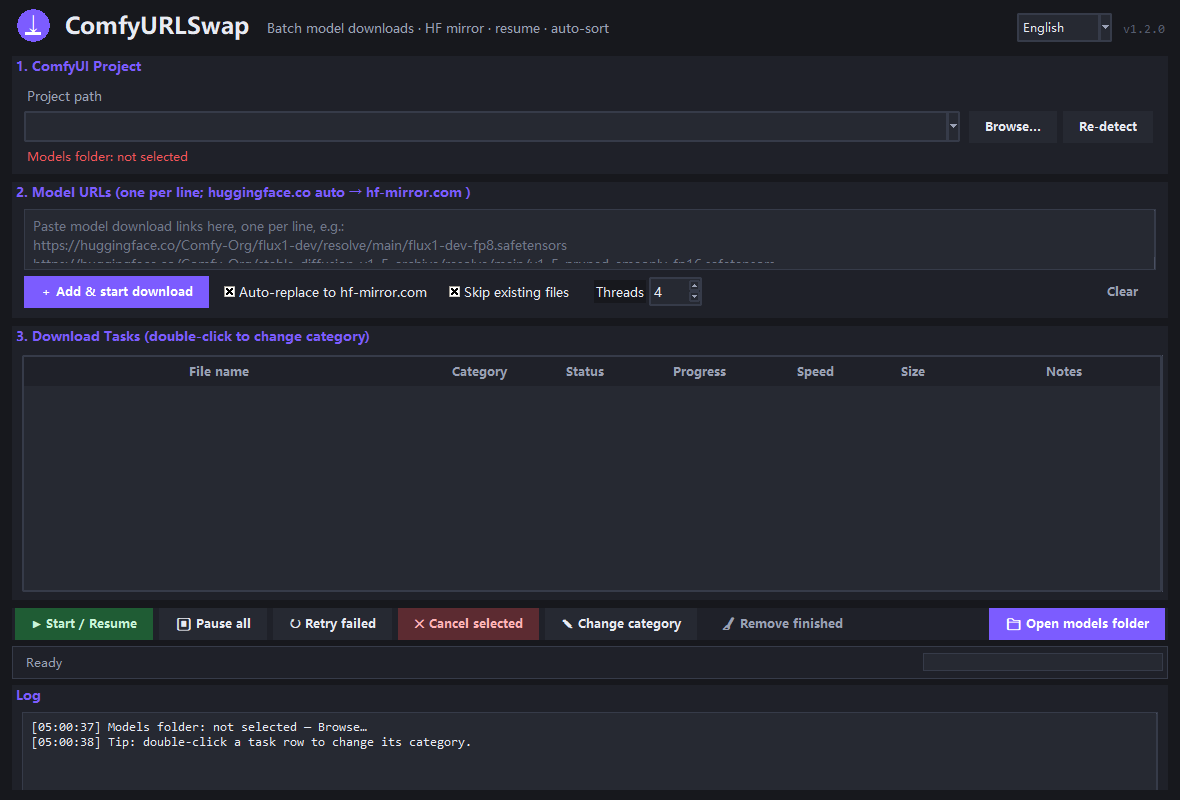
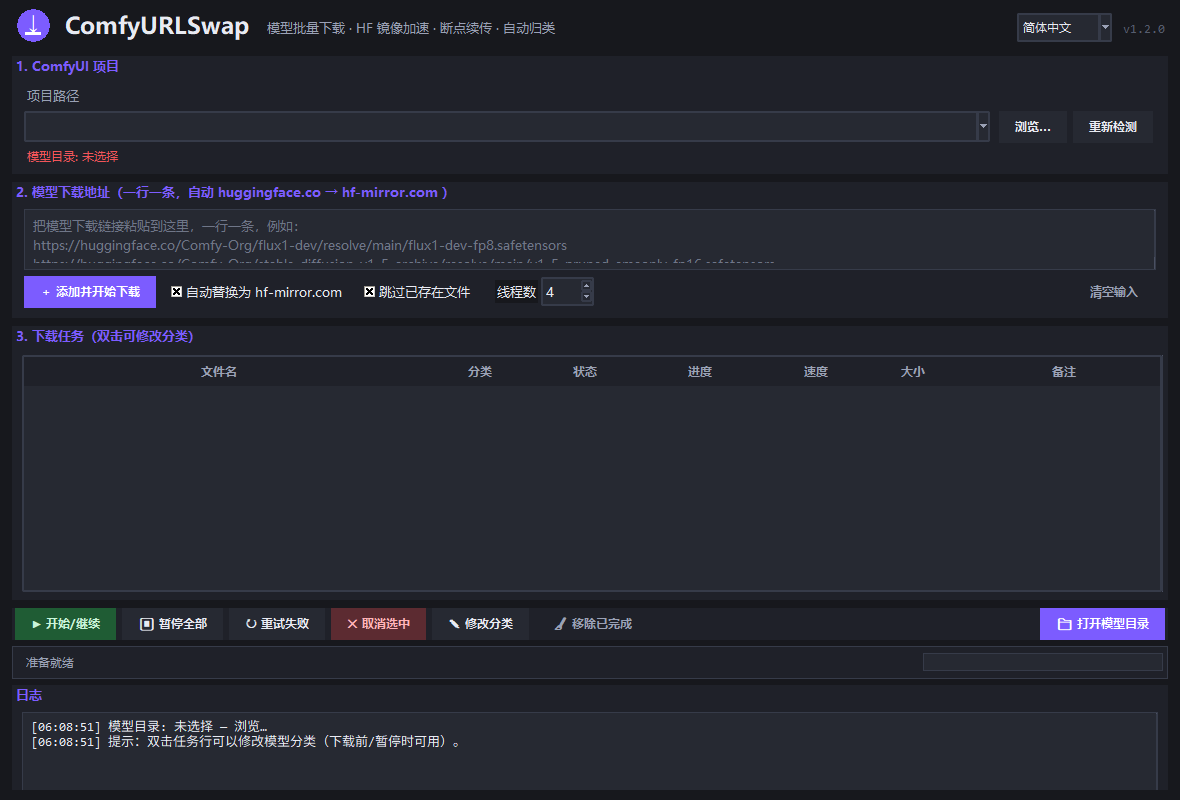
v1.2.0: default language switched to Chinese (root README + app fallback); English docs moved to docs/README_en.md

diff --git a/urlswap/i18n.py b/urlswap/i18n.py
@@ -722,7 +722,7 @@ _current = "en"
 
 
 def detect_language():
-    """根据系统 locale 猜测语言代码。"""
+    """根据系统 locale 猜测语言代码；识别不到时默认简体中文。"""
     loc = ""
     try:
         import locale as _l
@@ -734,11 +734,12 @@ def detect_language():
     for code, _name in LANGUAGES:
         if loc in (code.lower(), code.lower().replace("_", "")):
             return code
-    for prefix, code in (("zh", "zh_CN"), ("ja", "ja"), ("ko", "ko"), ("es", "es"),
+    for prefix, code in (("zh", "zh_CN"), ("en", "en"), ("ja", "ja"),
+                         ("ko", "ko"), ("es", "es"),
                          ("fr", "fr"), ("de", "de"), ("ru", "ru")):
         if loc.startswith(prefix):
             return code
-    return "en"
+    return "zh_CN"
 
 
 def set_language(code):

diff --git a/README.md b/README.md
@@ -1,118 +1,102 @@
 # ComfyURLSwap
 
-**v1.2.0** · Windows · Pure Python (Tkinter), **zero third-party dependencies** · **8 UI languages**
+**v1.2.0** · Windows · 纯 Python（Tkinter）实现，**零第三方依赖** · **界面支持 8 种语言**
 
-**English** | [简体中文](docs/README_zh.md)
+**简体中文** | [English](docs/README_en.md)
 
-![Preview](screenshot.png)
+![预览](screenshot.png)
 
-**ComfyURLSwap** is a small GUI downloader for ComfyUI model files. Paste a batch of
-download links, and it will:
+**ComfyURLSwap** 是一个 ComfyUI 模型批量下载器小工具，粘贴一堆下载链接即可：
 
-1. **Auto-detect your ComfyUI project** on startup (ComfyUI Desktop installs under
-   `%LOCALAPPDATA%\Comfy-Desktop\ComfyUI-Installs`, portable packages on common drives,
-   or pick a folder manually — your choice is remembered).
-2. **Swap HuggingFace links to the China mirror** — `huggingface.co` → `hf-mirror.com`
-   automatically (can be turned off). Pasted `/blob/` web-page URLs are converted to
-   `/resolve/` direct-download URLs automatically.
-3. **Download with multi-threading and resume support** — byte-level resume
-   (`.part` + `Range`), survives pause / network loss / closing the app; task list is
-   persisted and restored on next launch; failed tasks retry with backoff.
-4. **File every model into the right folder** under `<project>\ComfyUI\models\`,
-   detected from the URL / file name (double-click a task to override):
+1. **自动检测 ComfyUI 项目**：启动即扫描 ComfyUI Desktop（`%LOCALAPPDATA%\Comfy-Desktop\ComfyUI-Installs`）
+   与各盘符常见便携包目录，也可手动“浏览…”选择并记住。
+2. **自动替换国内镜像**：`huggingface.co` → `hf-mirror.com`（可关闭）；粘贴 HF 的
+   `/blob/` 网页地址会自动转换为 `/resolve/` 文件直链；服务器返回 HTML 网页时立即报错，不写坏文件。
+3. **多线程 + 断点续传**：字节级续传（`.part` + `Range`），暂停 / 断网 / 关闭程序后再打开自动恢复；
+   任务列表持久化，失败自动退避重试。
+4. **自动归类落盘**：按 URL / 文件名识别模型类型，放入 `<项目>\ComfyUI\models\` 下对应子目录
+   （双击任务行可手动修改分类）：
 
-   | Model type | Destination folder |
+   | 模型类型 | 存放目录 |
    | --- | --- |
-   | Checkpoint (SD1.5 / SDXL / Flux …) | `models/checkpoints/` |
-   | Diffusion / UNet base (quantized `fp8/int8/nvfp4` …) | `models/diffusion_models/` |
+   | 大模型 / Checkpoint（SD1.5、SDXL、Flux 等） | `models/checkpoints/` |
+   | Diffusion / UNet 底模（fp8/int8/nvfp4 等量化底模） | `models/diffusion_models/` |
    | LoRA | `models/loras/` |
    | VAE | `models/vae/` |
    | ControlNet | `models/controlnet/` |
    | Embedding / Textual Inversion | `models/embeddings/` |
-   | CLIP / text encoder | `models/clip/` |
+   | CLIP / 文本编码器 | `models/clip/` |
    | CLIP Vision | `models/clip_vision/` |
-   | UNet / diffusion model | `models/unet/` |
-   | Upscaler (ESRGAN …) | `models/upscale_models/` |
+   | UNet（单独扩散模型） | `models/unet/` |
+   | 放大模型（ESRGAN 等） | `models/upscale_models/` |
    | IP-Adapter | `models/ipadapter/` |
-5. **Talk to you in your language** — the whole UI *and* log messages are localized in
-   English · 简体中文 · 日本語 · 한국어 · Español · Français · Deutsch · Русский,
-   auto-detected from your system locale on first run and switchable live via the
-   dropdown at the top-right (your choice is remembered).
+5. **多国语言界面**：界面与日志全程本地化 —— English · 简体中文 · 日本語 · 한국어 ·
+   Español · Français · Deutsch · Русский，首次启动按系统语言自动选择，右上角下拉框
+   可随时切换并自动记住。
 
-## Download
+## 下载
 
-* **Windows EXE (recommended, no Python needed):**
-  [GitHub Releases](https://github.com/carychief-gpt/ComfyURLSwap/releases/latest) →
-  download `ComfyURLSwap-v1.2.0.exe` and double-click it. `settings.json` / `tasks.json`
-  (preferences, resume data) are created next to the EXE on first run.
-* **Run from source:** Python 3.8+ (with tkinter), then `python main.py`.
+* **Windows EXE（推荐，免 Python 环境）**：前往 [GitHub Releases](https://github.com/carychief-gpt/ComfyURLSwap/releases/latest)
+  下载 `ComfyURLSwap-v1.2.0.exe`，双击即用；首次运行会在 EXE 同目录生成
+  `settings.json` / `tasks.json`（配置与断点数据）。
+* **源码运行**：Python 3.8+（自带 tkinter），执行 `python main.py` 或双击 `启动ComfyURLSwap.bat`。
 
-## Usage
+## 使用说明
 
-1. Select your ComfyUI project in **step 1** (auto-detected or browse).
-2. Paste model download links into **step 2**, one per line, then click
-   **“＋ Add & start”** — links are mirrored and queued automatically.
-3. Watch progress in the task table; finished files land in `models\<category>\`.
-   Use **Open model folder** to verify. Double-click a row to change its category
-   (before download, or while paused).
+1. 第 1 步选择（或浏览选择）你的 ComfyUI 项目目录。
+2. 第 2 步一行一条粘贴模型下载链接，点击 **“＋ 添加并开始下载”**，自动替换镜像并开始下载。
+3. 任务表格实时显示进度 / 速度 / 总进度；完成后自动放入 `models\<分类>\`，
+   可点“📁 打开模型目录”查看。双击任务行可修改分类（下载前或暂停时）。
 
-Buttons: Start/Resume · Pause All · Retry Failed · Cancel Selected · Change Category ·
-Remove Completed · Open Model Folder.
+按钮：开始/继续 · 暂停全部 · 重试失败 · 取消选中 · 修改分类 · 移除已完成 · 打开模型目录。
+右上角下拉框可随时切换界面语言（8 种），选择会自动保存。
 
-## Security / privacy
+## 安全与隐私
 
-* The app stores **no accounts, no tokens, no credentials** — it only issues plain
-  HTTP GET requests to the download links you paste.
-* Runtime files `settings.json` (local paths, preferences) and `tasks.json`
-  (your download history) are deliberately **excluded from this repository** via
-  `.gitignore`, so nothing personal is ever uploaded. Delete them anytime.
+* 程序**不存储任何账号、密码、令牌**，只对你粘贴的链接发起普通 HTTP 下载请求。
+* 记录本地路径与下载历史的 `settings.json` / `tasks.json` 已通过 `.gitignore` 排除，
+  **不会上传到本仓库**，随时可删除。
 
-## Build from source
+## 从源码打包 EXE
 
-```bash
-pip install pyinstaller
-pyinstaller --onefile --windowed --name ComfyURLSwap ^
-  --icon tools\app.ico --add-data "tools\app.ico;." main.py
-# → dist\ComfyURLSwap.exe
+```bat
+tools\build_exe.bat
 ```
 
-`tools\build_exe.bat` does the same on Windows; `tools\make_icon.py` regenerates the icon.
+或手动执行 `pyinstaller --onefile --windowed --name ComfyURLSwap --icon tools\app.ico --add-data "tools\app.ico;." main.py`。
 
-## Changelog
+## 更新日志
 
 ### v1.2.0
-* **i18n:** entire UI + log/status messages localized — English, 简体中文, 日本語,
-  한국어, Español, Français, Deutsch, Русский; auto-detected from system locale,
-  live switch from the top-right language dropdown (persisted in settings)
-* Category names (checkpoint / LoRA / CLIP …) fully translated in the task table and
-  the category dialog
-* Documentation reorganized into `docs/` (this file stays at the repo root because
-  GitHub renders only the root README on the project home page)
+* **多语言**：整个界面 + 日志/状态信息全部本地化 —— 英语、简体中文、日语、韩语、
+  西班牙语、法语、德语、俄语；按系统语言自动选择，右上角下拉框实时切换（自动记住）
+* 任务表格与分类弹窗中的模型分类名称同步翻译
+* 文档整理：本 README（根目录，默认中文）+ 英文文档 `docs/README_en.md`
 
 ### v1.1.1
-* Fix: quantized base models (`int8/int4/fp8/nvfp4/convrot/gguf/awq`, Hyper-SD) now go to `diffusion_models`
-* Fix: speed LoRAs (`turbo`, `Nstep`, `lightning`, `lightx2v`) now go to `loras` even without “lora” in the filename
-* New `diffusion_models` category (modern ComfyUI standard folder; legacy `unet` still selectable)
+* 修复：量化底模（`int8/int4/fp8/nvfp4/convrot/gguf/awq`）与 Hyper-SD 类自动归类到 `diffusion_models`
+* 修复：速度类 LoRA（`turbo`、`Nstep`、`lightning`、`lightx2v`）即使文件名不含 “lora” 也能识别归入 `loras`
+* 新增 `diffusion_models` 分类（现代 ComfyUI 标准目录，旧版 `unet` 仍可选）
 
 ### v1.0.0
-* First release: project auto-detect, hf-mirror swap, multithreaded download, resume, task persistence, auto model routing
+* 首个版本：项目自动检测、hf-mirror 域名替换、多线程下载、断点续传、任务持久化、模型自动归类
 
-## Repo layout
+## 仓库结构
 
 ```
-main.py                  # entry point
+main.py                  # 入口
 urlswap/
-  ui.py                  # Tkinter GUI (dark theme, i18n)
-  i18n.py                # translations — 8 languages
-  downloader.py          # multithread / resume / task persistence
-  project.py             # ComfyUI project auto-detection
-  classify.py            # model routing rules
-  settings.py            # settings IO (EXE-aware)
+  ui.py                  # Tkinter 界面（深色主题、多语言）
+  i18n.py                # 翻译文案（8 种语言）
+  downloader.py          # 多线程下载 / 断点续传 / 任务持久化
+  project.py             # ComfyUI 项目自动检测
+  classify.py            # 模型分类规则
+  settings.py            # 配置读写（自动适配 EXE 模式）
 docs/
-  README_zh.md           # 简体中文文档
+  README_en.md           # 英文文档（English）
 tools/
-  build_exe.bat          # one-click EXE rebuild
-  make_icon.py           # regenerate app icon
-  shot.py                # regenerate screenshot.png
-  smoke_test.py          # headless automated tests
+  build_exe.bat          # 一键重新打包 EXE
+  make_icon.py           # 生成程序图标
+  shot.py                # 重新生成截图
+  smoke_test.py          # 无界面自动化测试
 ```

diff --git a/docs/README_en.md b/docs/README_en.md
@@ -1,0 +1,118 @@
+# ComfyURLSwap
+
+**v1.2.0** · Windows · Pure Python (Tkinter), **zero third-party dependencies** · **8 UI languages**
+
+[简体中文](../README.md) | **English**
+
+![Preview](../screenshot.png)
+
+**ComfyURLSwap** is a small GUI downloader for ComfyUI model files. Paste a batch of
+download links, and it will:
+
+1. **Auto-detect your ComfyUI project** on startup (ComfyUI Desktop installs under
+   `%LOCALAPPDATA%\Comfy-Desktop\ComfyUI-Installs`, portable packages on common drives,
+   or pick a folder manually — your choice is remembered).
+2. **Swap HuggingFace links to the China mirror** — `huggingface.co` → `hf-mirror.com`
+   automatically (can be turned off). Pasted `/blob/` web-page URLs are converted to
+   `/resolve/` direct-download URLs automatically.
+3. **Download with multi-threading and resume support** — byte-level resume
+   (`.part` + `Range`), survives pause / network loss / closing the app; task list is
+   persisted and restored on next launch; failed tasks retry with backoff.
+4. **File every model into the right folder** under `<project>\ComfyUI\models\`,
+   detected from the URL / file name (double-click a task to override):
+
+   | Model type | Destination folder |
+   | --- | --- |
+   | Checkpoint (SD1.5 / SDXL / Flux …) | `models/checkpoints/` |
+   | Diffusion / UNet base (quantized `fp8/int8/nvfp4` …) | `models/diffusion_models/` |
+   | LoRA | `models/loras/` |
+   | VAE | `models/vae/` |
+   | ControlNet | `models/controlnet/` |
+   | Embedding / Textual Inversion | `models/embeddings/` |
+   | CLIP / text encoder | `models/clip/` |
+   | CLIP Vision | `models/clip_vision/` |
+   | UNet / diffusion model | `models/unet/` |
+   | Upscaler (ESRGAN …) | `models/upscale_models/` |
+   | IP-Adapter | `models/ipadapter/` |
+5. **Talk to you in your language** — the whole UI *and* log messages are localized in
+   English · 简体中文 · 日本語 · 한국어 · Español · Français · Deutsch · Русский,
+   auto-detected from your system locale on first run and switchable live via the
+   dropdown at the top-right (your choice is remembered).
+
+## Download
+
+* **Windows EXE (recommended, no Python needed):**
+  [GitHub Releases](https://github.com/carychief-gpt/ComfyURLSwap/releases/latest) →
+  download `ComfyURLSwap-v1.2.0.exe` and double-click it. `settings.json` / `tasks.json`
+  (preferences, resume data) are created next to the EXE on first run.
+* **Run from source:** Python 3.8+ (with tkinter), then `python main.py`.
+
+## Usage
+
+1. Select your ComfyUI project in **step 1** (auto-detected or browse).
+2. Paste model download links into **step 2**, one per line, then click
+   **“＋ Add & start”** — links are mirrored and queued automatically.
+3. Watch progress in the task table; finished files land in `models\<category>\`.
+   Use **Open model folder** to verify. Double-click a row to change its category
+   (before download, or while paused).
+
+Buttons: Start/Resume · Pause All · Retry Failed · Cancel Selected · Change Category ·
+Remove Completed · Open Model Folder.
+
+## Security / privacy
+
+* The app stores **no accounts, no tokens, no credentials** — it only issues plain
+  HTTP GET requests to the download links you paste.
+* Runtime files `settings.json` (local paths, preferences) and `tasks.json`
+  (your download history) are deliberately **excluded from this repository** via
+  `.gitignore`, so nothing personal is ever uploaded. Delete them anytime.
+
+## Build from source
+
+```bash
+pip install pyinstaller
+pyinstaller --onefile --windowed --name ComfyURLSwap ^
+  --icon tools\app.ico --add-data "tools\app.ico;." main.py
+# → dist\ComfyURLSwap.exe
+```
+
+`tools\build_exe.bat` does the same on Windows; `tools\make_icon.py` regenerates the icon.
+
+## Changelog
+
+### v1.2.0
+* **i18n:** entire UI + log/status messages localized — English, 简体中文, 日本語,
+  한국어, Español, Français, Deutsch, Русский; auto-detected from system locale,
+  live switch from the top-right language dropdown (persisted in settings)
+* Category names (checkpoint / LoRA / CLIP …) fully translated in the task table and
+  the category dialog
+* Documentation reorganized: the root `README.md` is now the Chinese default;
+  English documentation lives in `docs/README_en.md`
+
+### v1.1.1
+* Fix: quantized base models (`int8/int4/fp8/nvfp4/convrot/gguf/awq`, Hyper-SD) now go to `diffusion_models`
+* Fix: speed LoRAs (`turbo`, `Nstep`, `lightning`, `lightx2v`) now go to `loras` even without “lora” in the filename
+* New `diffusion_models` category (modern ComfyUI standard folder; legacy `unet` still selectable)
+
+### v1.0.0
+* First release: project auto-detect, hf-mirror swap, multithreaded download, resume, task persistence, auto model routing
+
+## Repo layout
+
+```
+main.py                  # entry point
+urlswap/
+  ui.py                  # Tkinter GUI (dark theme, i18n)
+  i18n.py                # translations — 8 languages
+  downloader.py          # multithread / resume / task persistence
+  project.py             # ComfyUI project auto-detection
+  classify.py            # model routing rules
+  settings.py            # settings IO (EXE-aware)
+docs/
+  README_en.md           # English documentation
+tools/
+  build_exe.bat          # one-click EXE rebuild
+  make_icon.py           # regenerate app icon
+  shot.py                # regenerate screenshot.png
+  smoke_test.py          # headless automated tests
+```
